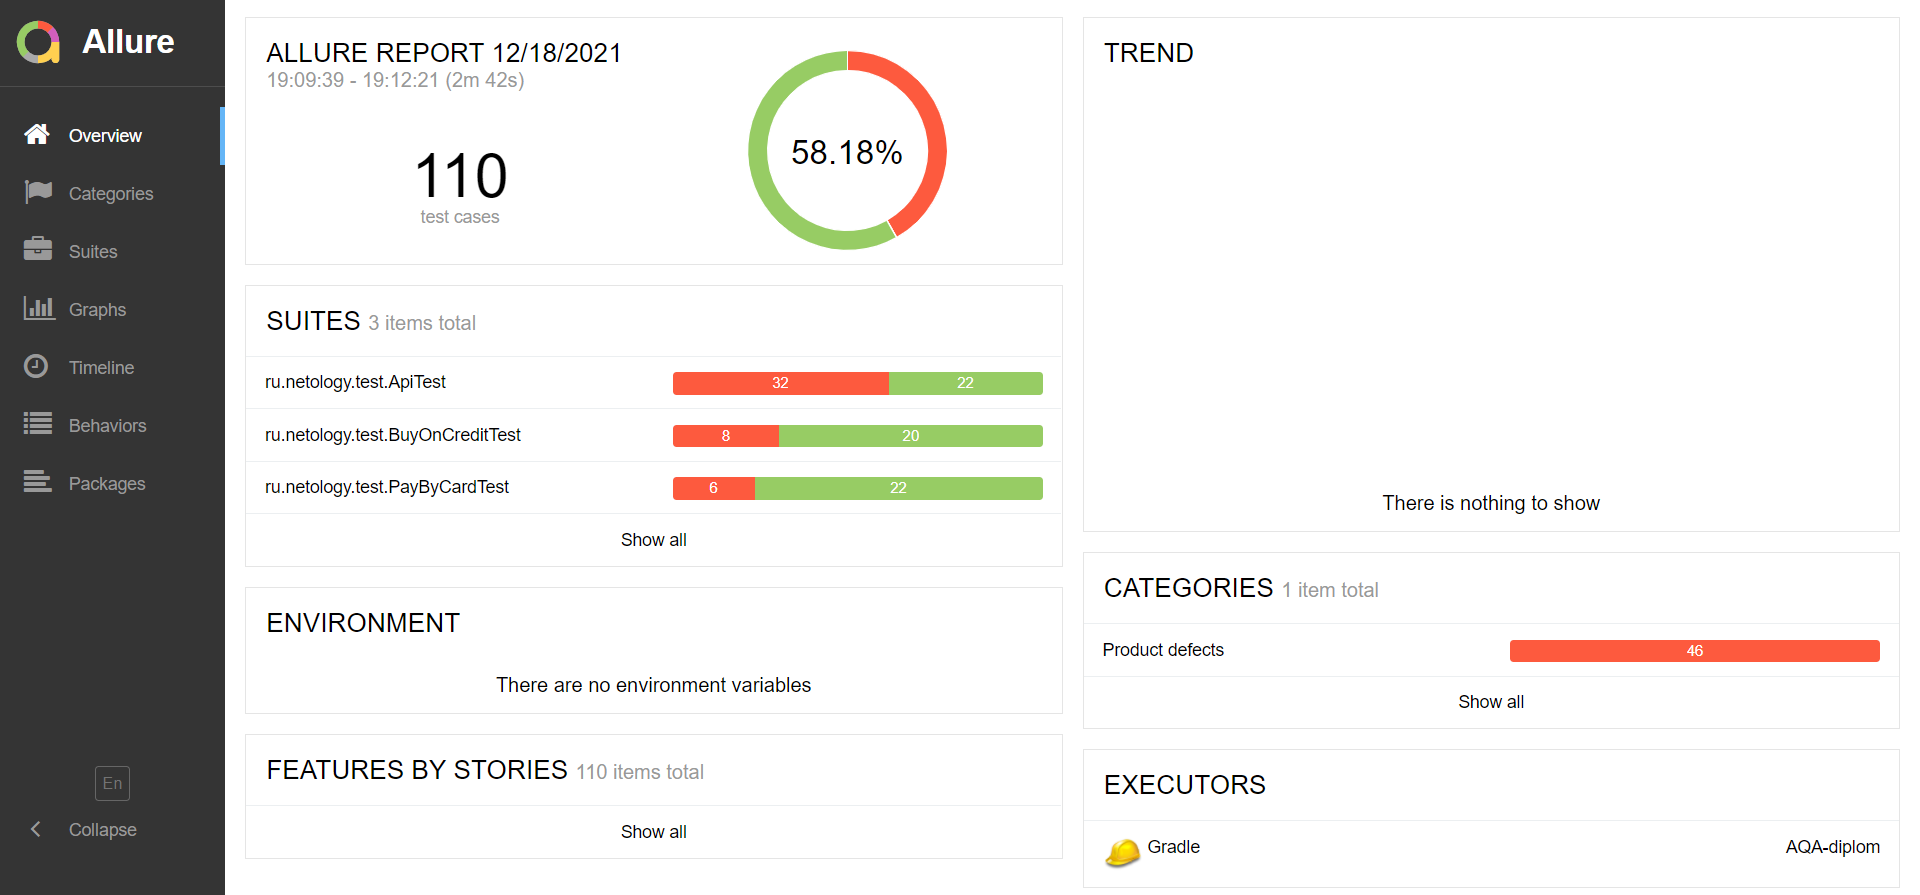
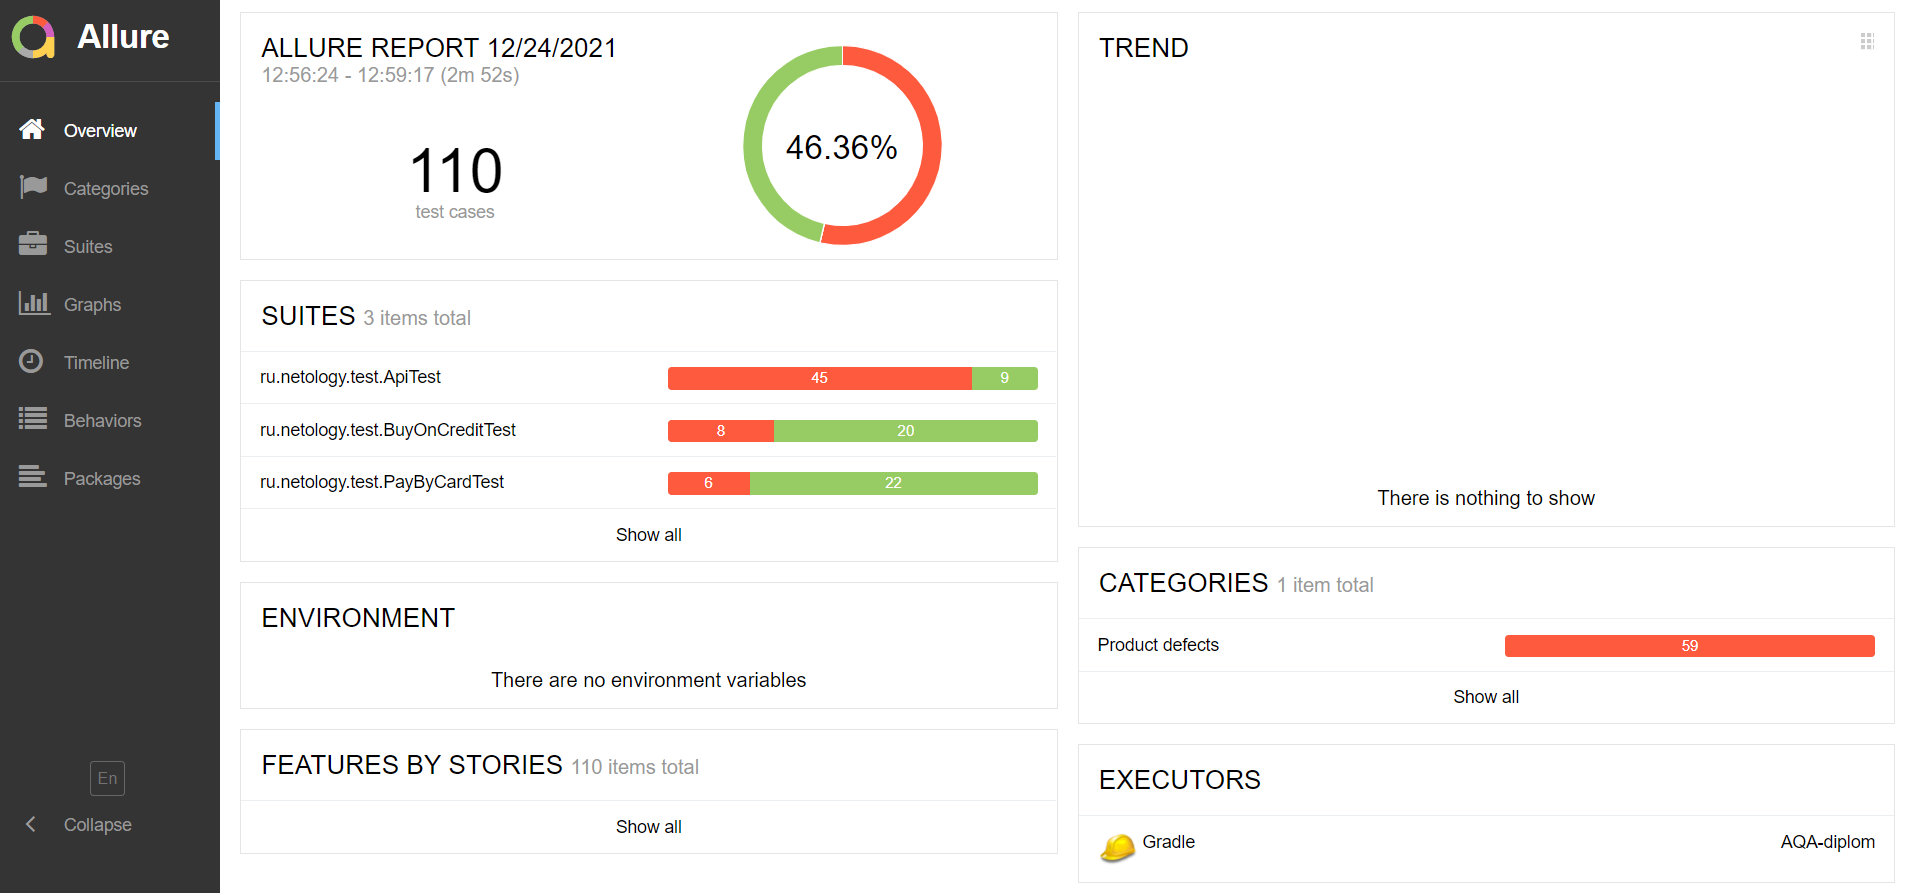
Update Report.md

diff --git a/docs/Report.md b/docs/Report.md
@@ -25,15 +25,17 @@ Windows 10 Домашняя для одного языка версия 21H1
 
 ### Тестирование:
 
-Всего было проведено 110 тестов, из них 46 тестов закончились неуспешно, что составляет 41,8% от общего количества.  
+Всего было проведено 110 тестов, из них 59 тестов закончились неуспешно, что составляет 53,6% от общего количества.
+В основном неуспешно закончились API тесты: 45 из 54, или 83,3%.
+
 По итогам сформирован отчет с использованием Allure Report.
 ![AllureReport](AllureReport.png)
 
-Выявленные дефекты были отражены в Issue (для тестов UI).
+Выявленные дефекты были отражены в Issue.
 
 
 ### Общие рекомендации:
 1.	Устранить обнаруженные дефекты
 2. Добавить CSS селекторы для тестирования
 3. Разработать документацию на БД.
-4. Установить ограничения на передачу данных в БД.
+4. Установить валидацию полей при передаче данных в БД.
